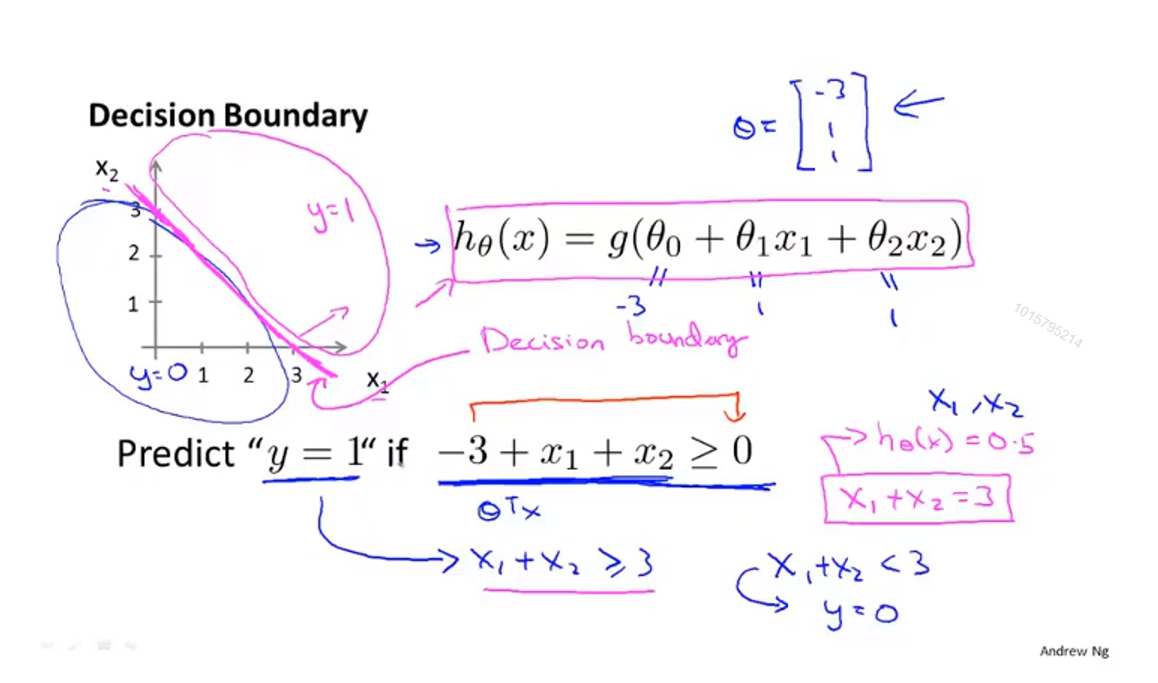
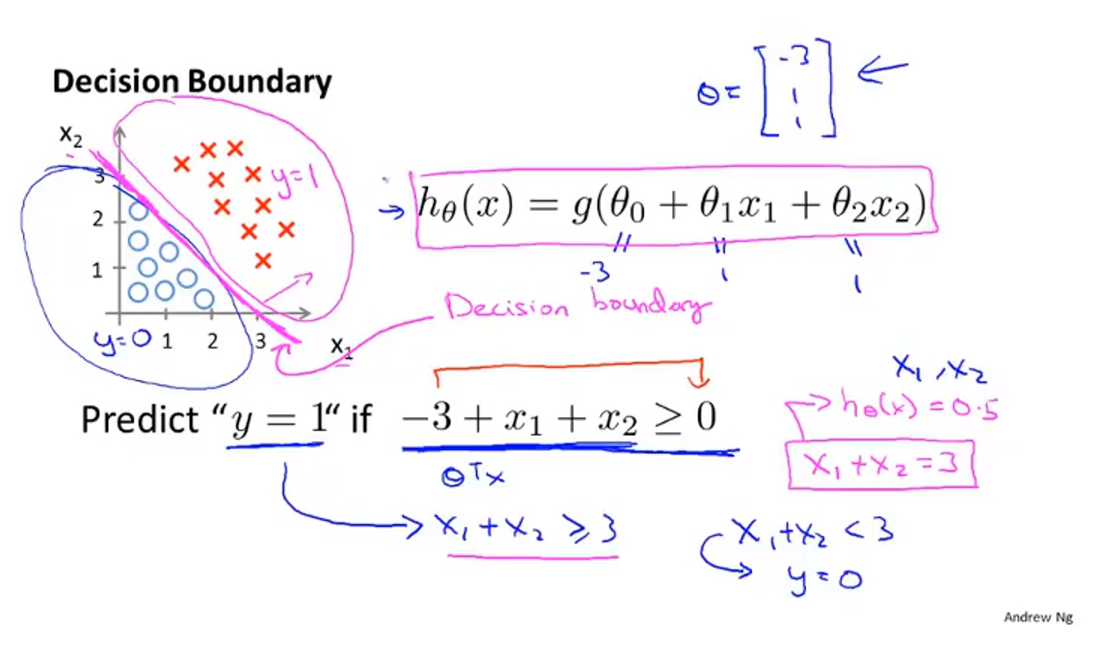
2019.9.6

diff --git a/机器学习/机器学习.md b/机器学习/机器学习.md
@@ -615,6 +615,22 @@ $y_1$ 表示向量 y 中的第一个元素。
 
 ![](picture/logistics回归之决策边界.png)
 
+像之前所说的logistics回归 $h_{\theta}(x) = g(\theta^Tx)$ 的曲线如上图所示，而 $h_{\theta}(x)$ 表示的是为恶性肿瘤的概率，但我们要解决的问题是一个分类问题，输出值 $y$ 只能有 0 和 1 这两种值，那么何时取 1 ，何时取 0 呢？
 
+一般来说，当概率大于 0.5 时我们认为其更有可能发生，所以我们就预测，若 $h_{\theta}(x)>0.5$ ，则输出为1，反之则输出为0。
+
+观察 Sigmoid函数 $g(z)$ 曲线可以很容易的看出， $z=0$ 处 $g(z)$ 的取值为0.5，即 z 小于0时， $g(z)<0.5$ ，y = 0；z 大于等于0时， $g(z)>=0.5$ ，y = 1。
+
+又因为 $h_{\theta}(x) = g(\theta^Tx)$ ，所以 $\theta^Tx<0$ 时， $h_{\theta}(x) = g(\theta^Tx)$ < 0.5，y = 0； $\theta^Tx>=0$ 时， $h_{\theta}(x) = g(\theta^Tx)$ >= 0.5，y = 1.
 
 ![](picture/logistics回归之决策边界2.png)
+
+假设我们有左上这样一个数据集，同时假设假设函数为 $h_{\theta}(x) = g(\theta_0+\theta_1x_1+\theta_2x_2)$ ,目前还没有提到如何拟合模型中的参数，将在后面的章节提及。但是假设我们已经拟合好了参数，最终选择如下值： $\theta_0=-3,\theta_1 = 1,\theta_2 = 1$ 。
+
+根据上面所论述的，若 $y = 1$ ，则 $h_{\theta}(x) = g(\theta^Tx)>0.5$ ，即 $\theta^Tx>= 0$ ，即 $-3+x_1+x_2>=0$ ，即 $x_1+x_2>=3$ 。而 $x1 + x_2 = 3$ 在图中则为那条洋红色的直线。这条直线则表示 $h_{\theta}(x) = 0.5$ ，这条直线也就是决策边界。
+
+需要澄清一点，决策边界是假设函数的一个属性，它包括参数 $\theta_0,\theta_1,\theta_2$ 。决策边界决定于其参数，不是数据集的属性。
+
+![](picture/logistics回归之决策边界3.png)
+
+让我们看一个更复杂的情况，给出如左上给出的数据集，很明显，我们
